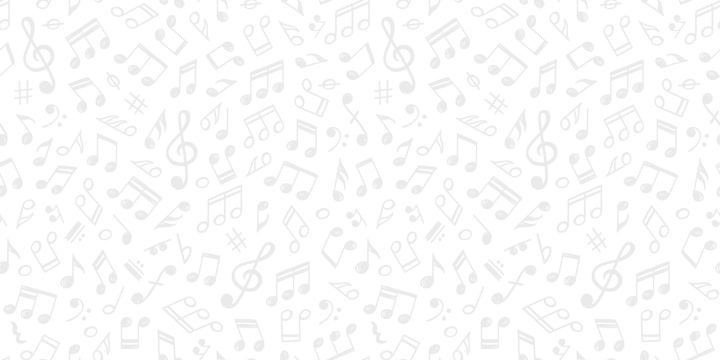
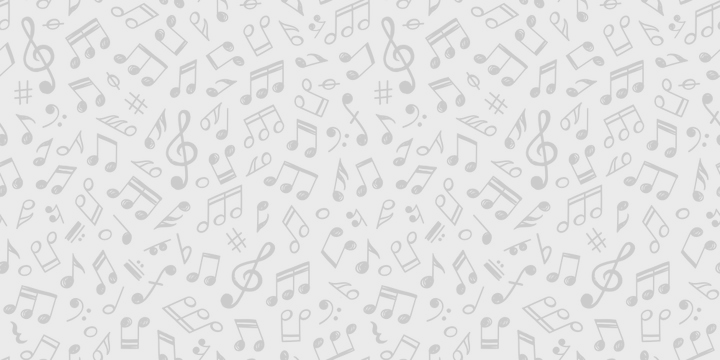
minor changes in Card.jsx component

Changed region(s): [[0.0, 0.0, 1.0, 1.0], [0.55, 0.0, 0.6111, 0.0306], [0.5806, 0.825, 0.6111, 0.8556]]

diff --git a/FrontEnd/front-end/src/components/Card.jsx b/FrontEnd/front-end/src/components/Card.jsx
@@ -1,7 +1,7 @@
 import React from 'react'
 import ListedPiece from './ListedPiece'
 
-const Card = () => {
+const Card = ({pieces}) => {
   return (
     <div className='flex bg-white rounded-3xl mx-32 my-20 flex-col font-roboto shadow-2xl'>
         <input type="text" placeholder='Paste Link...' className='bg-grey mt-12 bg-slate-100 px-3 py-5 rounded-md mx-12 mb-8 h-8 outline-none'/>
@@ -13,13 +13,16 @@ const Card = () => {
             </div>
         </div>
         <div className='align-middle justify-center bg-slate-100 overflow-y-auto max-h-96 mb-8 mx-12 rounded-lg'>
-            <ListedPiece title={"Song.pdf"} size={"1.2 KB"} type={"pdf"}/>
-            <ListedPiece title={"Song.pdf"} size={"1.2 KB"} type={"pdf"}/>
-            <ListedPiece title={"https://www.youtube.com/"} size={"watch?v=dQw4w9WgXcQ&ab_channel=RickAstley"} type={"url"}/>
-            <ListedPiece title={"Song.pdf"} size={"1.2 KB"} type={"pdf"}/>
-            <ListedPiece title={"Song.pdf"} size={"1.2 KB"} type={"pdf"}/>
-            <ListedPiece title={"https://www.youtube.com/"} size={"watch?v=dQw4w9WgXcQ&ab_channel=RickAstley"} type={"url"}/>
-            <ListedPiece title={"https://www.youtube.com/"} size={"watch?v=dQw4w9WgXcQ&ab_channel=RickAstley"} type={"url"}/>
+             {pieces.map((piece, index) => (
+                <ListedPiece 
+                    key={index}
+                    title={piece.title} 
+                    size={piece.size} 
+                    type={piece.type} 
+                    pos={index + 1} 
+                    total={pieces.length}
+                />
+            ))}
         </div>
         <div className='flex justify-center'>
           <button className='bg-white rounded-lg px-12 py-1.5 text-blue-600 font-semibold ml-4 mb-6 hover:bg-slate-100 shadow-md text-lg'>Generate Personal Rank</button>

diff --git a/FrontEnd/front-end/src/components/ListedPiece.jsx b/FrontEnd/front-end/src/components/ListedPiece.jsx
@@ -1,16 +1,21 @@
 import React from 'react'
-import Image1 from '../static/images/pdf_icon.png'
-import Image2 from '../static/images/http_icon.png'
+import PdfImage from '../static/images/pdf_icon.png'
+import HttpImage from '../static/images/http_icon.png'
+import UpArrow from '../static/images/up_arrow.svg'
+import DownArrow from '../static/images/down_arrow.svg'
 
-const ListedPiece = ({title, type, size}) => {
+const ListedPiece = ({title, type, size, pos, total}) => {
   return (
     <div className='flex flex-row my-4 ml-6'>
       <div className='flex mr-4'>
-        {type === 'pdf' ? <img src={Image1} alt='imageNotFound' className='size-14'></img> : <img src={Image2} alt='imageNotFound' className='size-14'></img>}
+        {type === 'pdf' ? <img src={PdfImage} alt='imageNotFound' className='size-14'></img> : <img src={HttpImage} alt='imageNotFound' className='size-14'></img>}
       </div>
-      <div className='flex flex-col'>
+      <div className='flex flex-col flex-grow'>
         <p className='font-roboto font-medium'>{title}</p>
         <p className='font-roboto text-sm'>{size}</p>
+      </div>
+       <div className="flex ml-auto font-roboto flex-row items-center mr-3">
+        <button className='text-xl font-semibold mr-2 bg-white rounded-md shadow-sm hover:bg-slate-100'><img src={DownArrow} alt="down" className='size-6'/></button><p className='text-lg'>{pos}</p><p className='text-lg'>/</p><p className='text-lg '>{total}</p> <button className='text-xl ml-2 bg-white rounded-md shadow-sm hover:bg-slate-100'><img src={UpArrow} alt="up" className='size-6'/></button>
       </div>
     </div>
   )

diff --git a/FrontEnd/front-end/src/pages/Upload.js b/FrontEnd/front-end/src/pages/Upload.js
@@ -17,10 +17,40 @@ function Upload() {
             .catch((error) => setError(error.message));
     }, []);
 
+    // Aixo es temporal mentre no tinguem crides a la BBDD
+    const pieces = [{
+            title: "Song.pdf",
+            size: "1.2 KB",
+            type: "pdf"
+        },
+        {
+            title: "Video.mp4",
+            size: "4.7 MB",
+            type: "video"
+        },
+        {
+            title: "https://www.youtube.com/",
+            size: "watch?v=dQw4w9WgXcQ&ab_channel=RickAstley",
+            type: "url"
+        }, {
+            title: "Song.pdf",
+            size: "1.2 KB",
+            type: "pdf"
+        }, {
+            title: "Video.mp4",
+            size: "4.7 MB",
+            type: "video"
+        }, {
+            title: "https://www.youtube.com/",
+            size: "watch?v=dQw4w9WgXcQ&ab_channel=RickAstley",
+            type: "url"
+        }
+    ];
+
     return (
         <div className="flex justify-center items-center">
             <div className="max-w-6xl w-full">
-                <Card></Card>
+                <Card pieces={pieces}></Card>
             </div>
         </div>
     );

diff --git a/FrontEnd/front-end/src/static/styles/index.css b/FrontEnd/front-end/src/static/styles/index.css
@@ -10,8 +10,8 @@ body {
   -webkit-font-smoothing: antialiased;
   -moz-osx-font-smoothing: grayscale;
   background-image: url("../images/background.png");
-  background-color: rgb(255, 255, 255);
 }
+
 
 code {
   font-family: source-code-pro, Menlo, Monaco, Consolas, 'Courier New',
